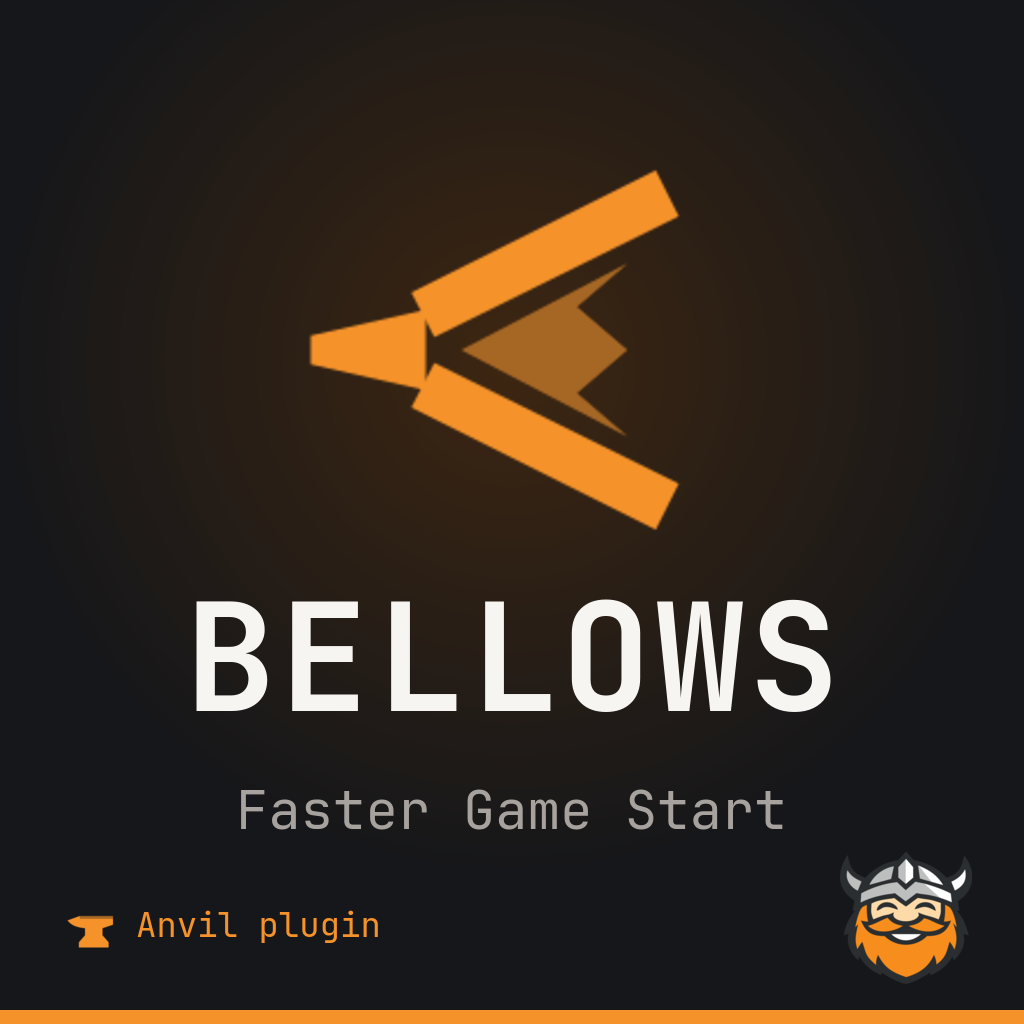
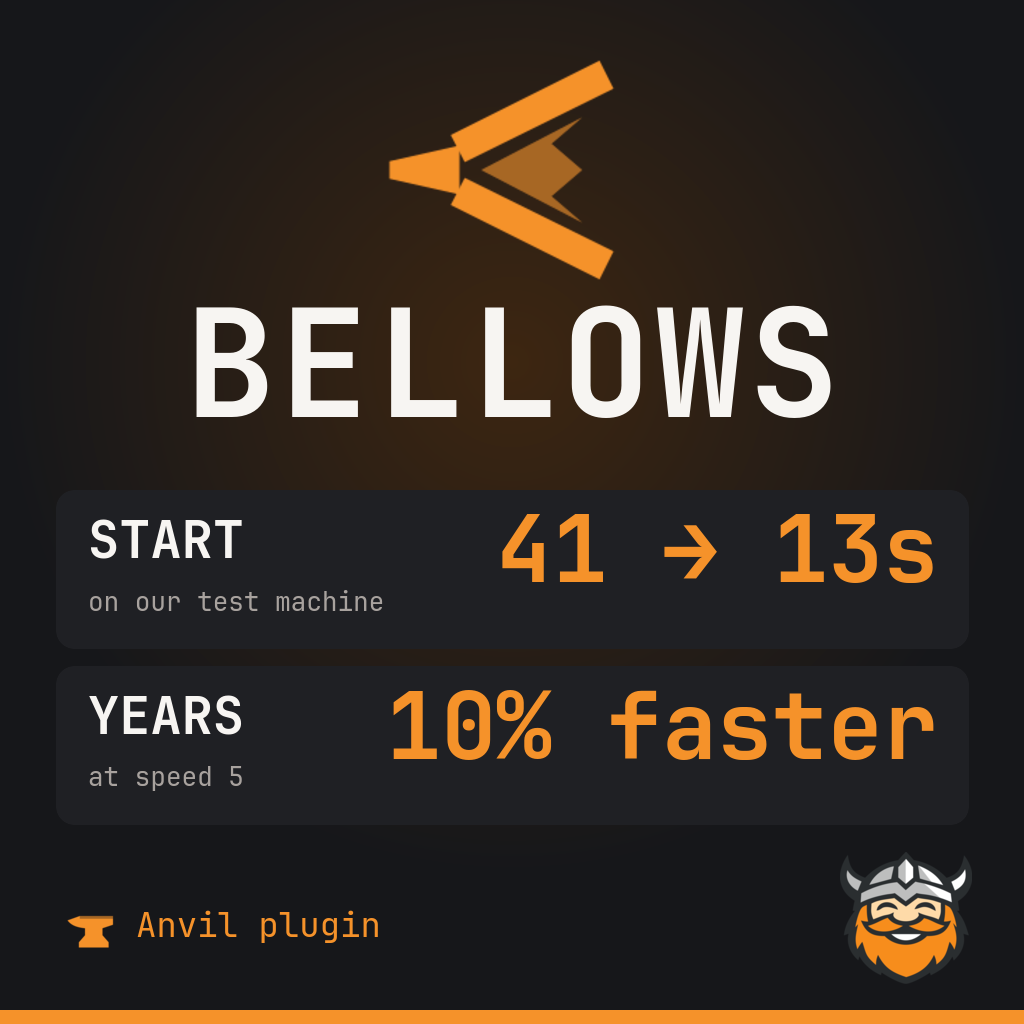
docs(workshop): new thumbnail, a simpler install section, a link to Mei
The thumbnail now shows the faster years at speed 5 next to the faster start.
One Install section replaces two, and says to run the Manager and click
Install Anvil. Repeats go, so the page is 7701 of 8000 BBCode bytes.

Changed region(s): [[0.0938, 0.0625, 0.9062, 0.75], [0.4375, 0.75, 0.7812, 0.8125], [0.0938, 0.75, 0.4062, 0.8125]]

diff --git a/workshop/description.md b/workshop/description.md
@@ -11,19 +11,15 @@ Bellows makes EU4 reach the main menu much sooner and lets the years pass a litt
 
 ![](https://i.imgur.com/Uf8Z21n.png)
 
-## Before you subscribe
-- **[Anvil](https://anvil.happydwarf.dev/) 1.7 or newer** must be installed in the game folder. Get it from [anvil.happydwarf.dev](https://anvil.happydwarf.dev/) and press Download. The Workshop can't install it for you: a dwarf has to carry it in by hand, once.
-- **EU4 1.37.5** (Steam, Windows; the GOG build 1.37.5.2 works too, see the FAQ). On any other version Bellows politely stays out of the way and the game starts as usual.
+## Install
+Bellows runs on EU4 1.37.5 (Steam, Windows; the GOG build 1.37.5.2 too, see the FAQ). On any other version it politely stays out of the way and the game starts as usual.
 
-![](https://i.imgur.com/Uf8Z21n.png)
+1. **Install [Anvil](https://anvil.happydwarf.dev/) 1.7 or newer.** Download it, run it and click **Install Anvil**. If Windows warns, choose **More info**, then **Run anyway**. You do this once; the Workshop can't do it for you.
+2. **Subscribe** and enable Bellows in your playset.
+3. **Start the game.** Anvil says a plugin is waiting: press **Ctrl+Shift+F12**, open **Mods** and approve Bellows.
+4. **Restart the game.** Enjoy the shorter wait.
 
-## Getting it running
-1. Subscribe and enable Bellows in your playset.
-2. Start the game. Anvil will tell you a new plugin is waiting.
-3. Press **Ctrl+Shift+F12**, open **Mods** and approve Bellows. You can also approve it before playing, in Anvil Manager.
-4. Restart. Enjoy the shorter wait.
-
-Anvil asks again after every update. Until you approve, the version you trusted before keeps working.
+Anvil asks again after an update; the version you approved keeps working until then.
 
 ![](https://i.imgur.com/Uf8Z21n.png)
 
@@ -52,13 +48,12 @@ Keep Steam running and leave the computer alone while it works: about ten minute
 ![](https://i.imgur.com/Uf8Z21n.png)
 
 ## More from Happy Dwarf Team
-- **[Anvil](https://anvil.happydwarf.dev/)**: the free loader that lets plugins like Bellows into EU4, with a Manager to approve them, keep them updated and measure what they give you.
+- **[Anvil](https://anvil.happydwarf.dev/)**: the free loader that lets plugins like Bellows into EU4, with a Manager to approve and update them.
 - **[Hamweard](https://steamcommunity.com/sharedfiles/filedetails/?id=3832650792)**: and once you play, Exit to Menu takes you back to the main menu without a restart.
+- **[Mei](https://steamcommunity.com/sharedfiles/filedetails/?id=3832685486)**: Chinese, Japanese and Korean text in EU4, for the translation mod of your choice.
 - **[Tongs](https://steamcommunity.com/sharedfiles/filedetails/?id=3826695093)**: for mod testers and tool makers, let your scripts and AI agents see the game and press its buttons.
 - **[Etch](https://etch.happydwarf.dev/)**: for interface modders, see your `.gui` window as the game draws it, right in VS Code.
 - Everything we make: [happydwarf.dev](https://happydwarf.dev/)
-
-![](https://i.imgur.com/Uf8Z21n.png)
 
 ### Alternative download
 [GitHub](https://github.com/happy-dwarf-team/bellows), also for the GOG build.
@@ -71,10 +66,10 @@ Keep Steam running and leave the computer alone while it works: about ten minute
 Bellows is a real program running inside your game, not just a pile of text files. Anvil makes sure nothing like that runs without your nod. Trust, but verify. Dwarf law.
 
 ### My game didn't get any faster.
-Some of Bellows' tricks learn what your mod set needs during one start and pay off from the next, so give it two runs. Still slow? The **Mods** tab in Anvil's panel tells you if Bellows was skipped and why. For a fair number, run the benchmark from **Measure it yourself** above and attach the report to a [performance report](https://github.com/happy-dwarf-team/bellows/issues/new?template=performance_report.yml).
+Some of Bellows' tricks learn what your mod set needs during one start and pay off from the next, so give it two runs. Still slow? The **Mods** tab in Anvil's panel tells you if Bellows was skipped and why. For a fair number, run the benchmark from **Measure it yourself** above.
 
 ### Does it work with big overhaul mods?
-Yes. It doesn't care what your mods contain, it only helps the game read them faster. Bigger mod sets usually gain the most: on our test machine, Anbennar with Proper 2K UI Enhanced and its patch went from about 85 seconds to about 22.
+Yes. It doesn't care what your mods contain, it only helps the game read them faster. Bigger mod sets usually gain the most: on our test machine, Anbennar with Proper 2K UI Enhanced went from about 85 seconds to about 22.
 
 ### Will it break my saves or my achievements?
 No. It changes how fast the game starts and runs, not what the game does. When the game compresses a save, Bellows writes exactly the file the game would write, byte for byte (unless you turn on parallel save compression, which packs the same save a little differently).
